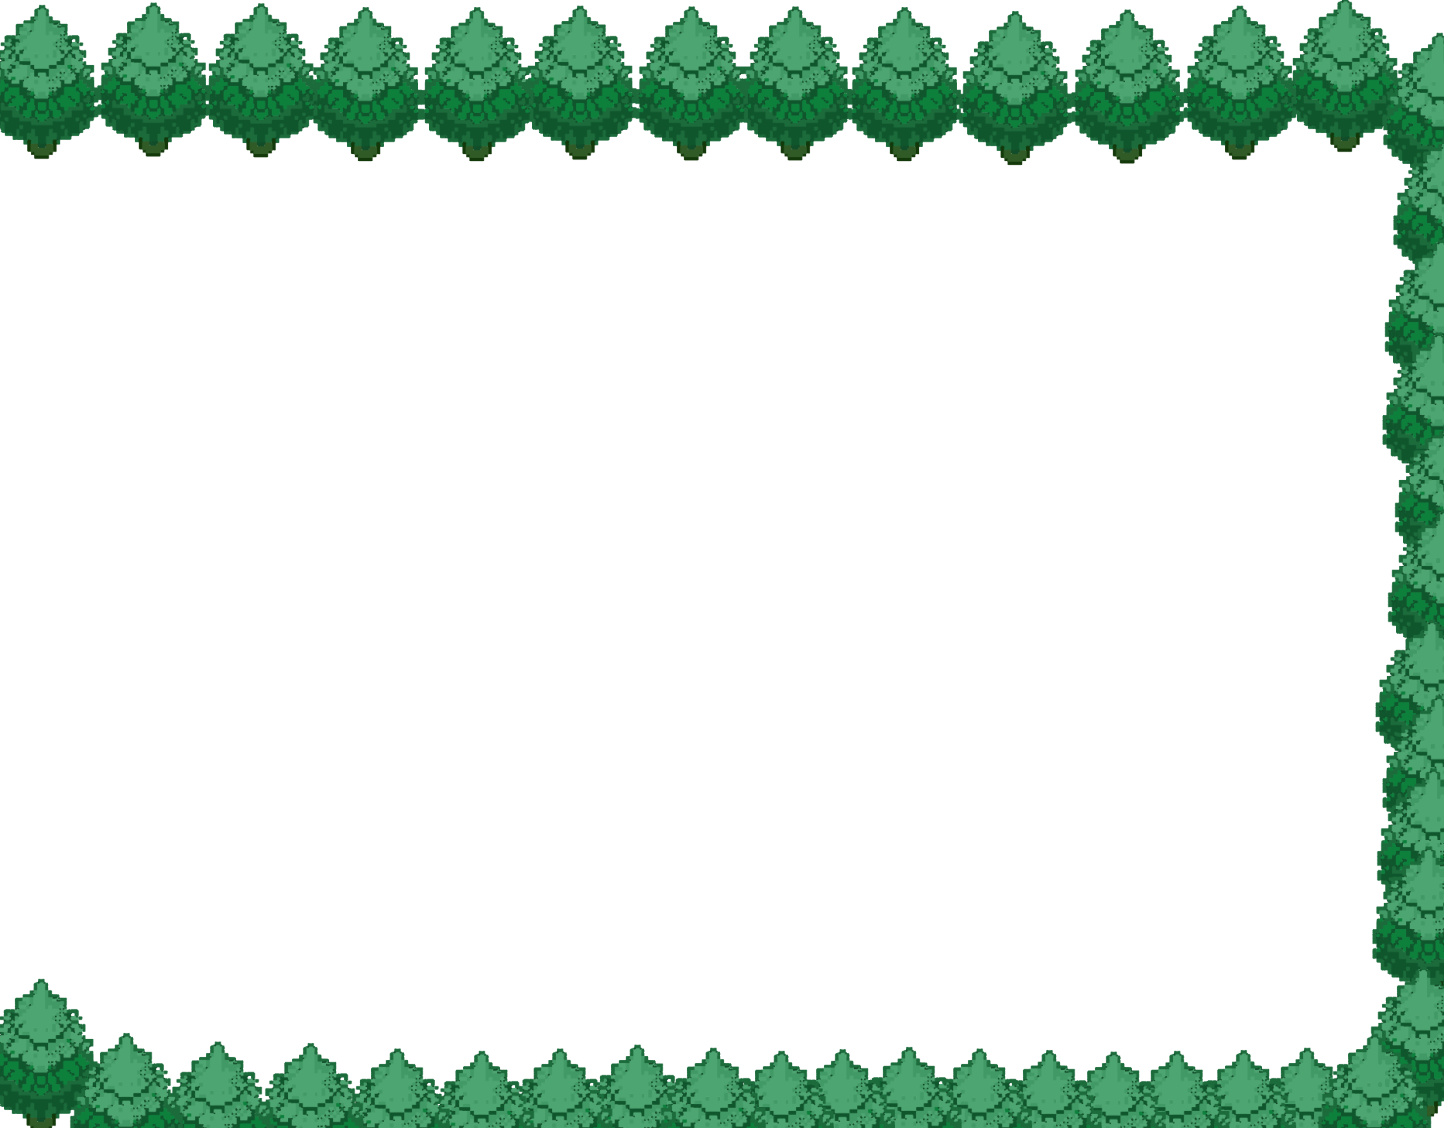
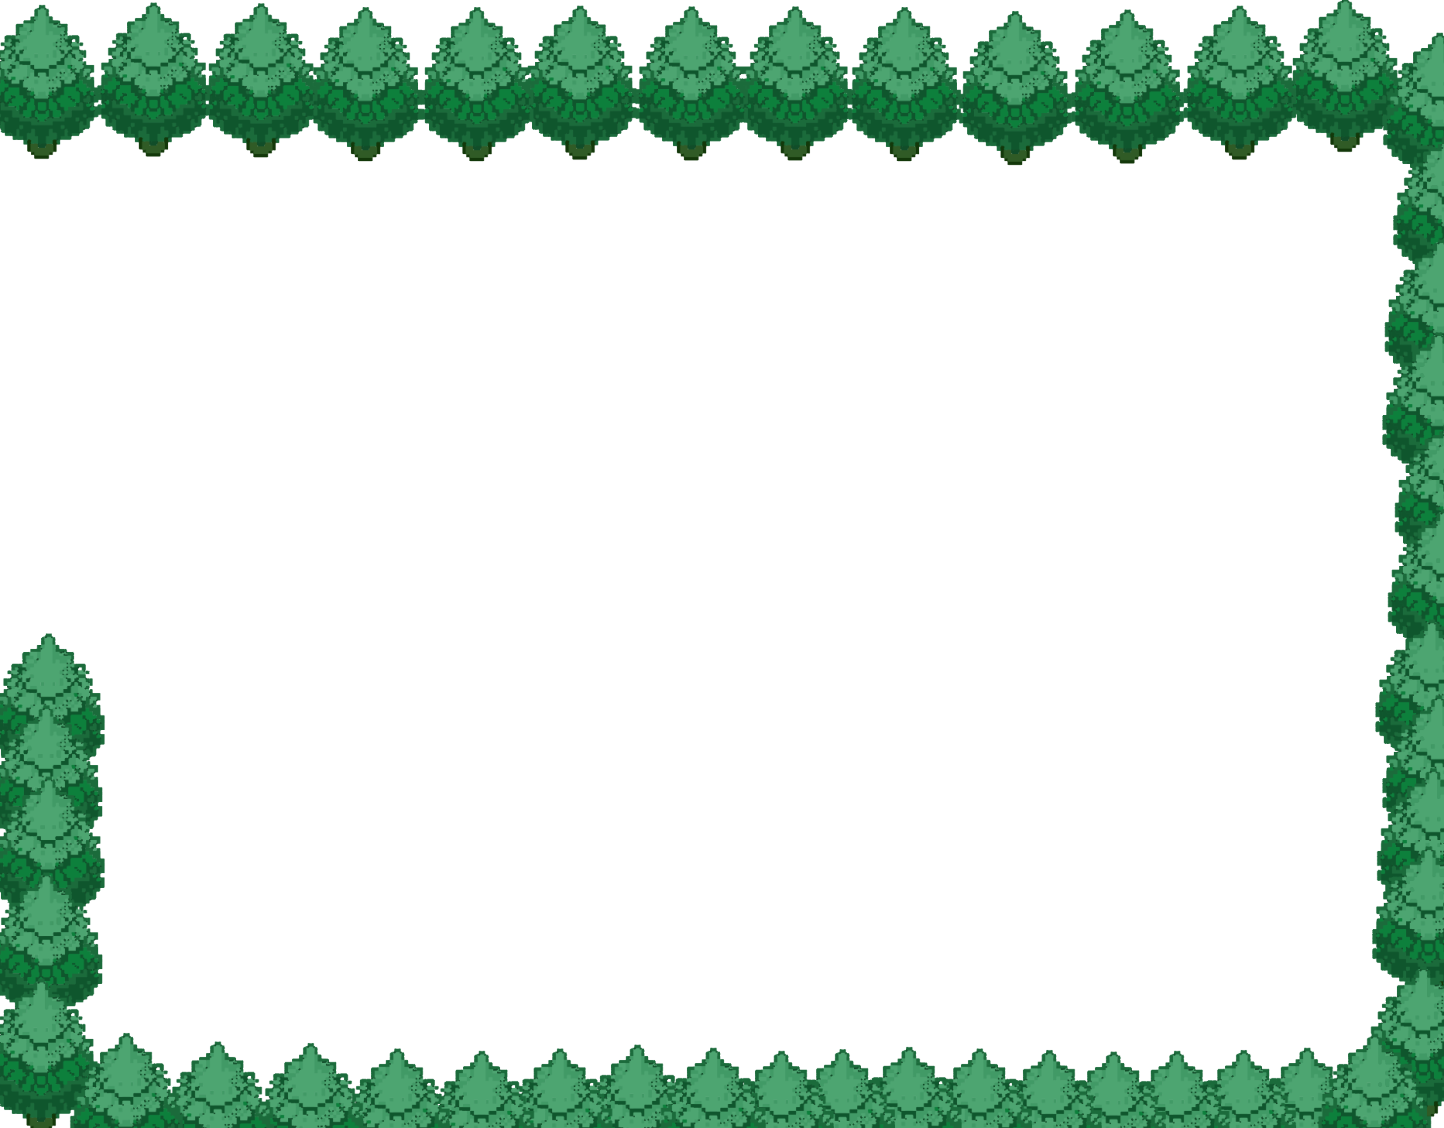
Updates to Map and Town

Changed region(s): [[0.0, 0.5585, 0.0935, 0.8998]]

diff --git a/src/Map.js b/src/Map.js
@@ -15,6 +15,7 @@ class Map {
         this.group.setVisible(true);
         this.mapImage.setVisible(true);
         let children = this.group.getChildren();
+        //WEIRD
             children.forEach((child) => { 
                 this.scene.physics.world.enable(child);
             });
@@ -80,13 +81,14 @@ class Map {
                 this.addHitbox(518, 210, 50, 20, "PresentDayInt", 998, 349);
                 this.addHitbox(-16, 178, 40, 20, "PresentDayInt", -84, 329);
                 this.addHitbox(1000, 185, 70, 20, "PresentDayInt", 527, 244);
-                this.addHitbox(986, 790, 50, 20, "PresentDayInt", 879, 811);
+                this.addHitbox(986, 795, 50, 20, "PresentDayInt", 879, 811);
                 this.addHitbox(71, 790, 50, 20, "PresentDayInt", 97, 814);
                 this.addHitbox(-220, 354, 30, 1000, "Initial Park", 1122, 538, false, true);
                 //Bounds Initialization
                 this.addBounds(500, 950, 1500, 50, "Present Day");
                 this.addBounds(1218, 473, 50, 1500, "Present Day");
                 this.addBounds(501, -48, 1500, 50, "Present Day");
+                this.addBounds(-175, 690, 50, 500, "Present Day");
                 //Library
                 this.addBounds(44, 139, 266, 100,"Present Day");
                 //house
@@ -94,22 +96,32 @@ class Map {
                 //Home Repo
                 this.addBounds(1002, 135, 355, 115, "Present Day");
                 //Town Hall
-                this.addBounds(520, 156, 350, 90, "Present Day");
+                this.addBounds(520, 170, 350, 90, "Present Day");
+                //House
+                this.addBounds(956, 760, 295, 90, "Present Day");
+
+                
                 break;
             case "PresentDayInt":
-                this.addHitbox(998, 375, 50, 20, "Present Day", 514, 250);
+                this.addHitbox(998, 375, 50, 20, "Present Day", 514, 240);
                 this.addHitbox(-84, 355, 50, 20, "Present Day", -16, 206);
                 this.addHitbox(525, 272, 50, 20, "Present Day", 1001, 212);
-                this.addHitbox(879, 850, 50, 20, "Present Day", 976, 816);
+                this.addHitbox(879, 850, 50, 20, "Present Day", 976, 825);
                 this.addHitbox(97, 843, 50, 20, "Present Day", 71, 816);
+                //this.addBounds(1140, -40, )
                 //this.addHitbox(95, 842, 50, 20, "Present Day", 71, 810);
                 break;
             case "Initial Park":
                 this.addHitbox(1160, 364, 20, 1000, "Present Day", -193, 339, false, true);
+                //BOUNDS
+                this.addBounds(443, 665, 2000, 20, "Initial Park");
+                this.addBounds(1140, -340, 50, 1000, "Initial Park");
+                this.addBounds(530, -340, 2000, 50, "Initial Park");
+                this.addBounds(-100, 75, 50, 2000, "Initial Park");
+             
                 
         }
     }
-    //used to make our hitbox gone when needed (by associating it with group)
     addHitbox(x,y, width, height, mapName, destX, destY, keepX=false, keepY=false){
         let hitBox = new Hitbox(this.scene, x, y, width, height, mapName, destX, destY, keepX, keepY);
         this.group.add(hitBox);

diff --git a/src/scenes/Town.js b/src/scenes/Town.js
@@ -50,7 +50,7 @@ class Town extends Phaser.Scene
         this.load.image('1960sFloor', '/Scene_1960s/1960s.png');
         this.load.image('PresentDayInt', '/Scene_PresentDay/Interior.png');
         this.load.image('dialogueBox', '/HUD/text_box.png');
-        
+        this.load.image('treeRight', '/Scene_PresentDay/tree_right.png');
         this.load.image('parkStart', '/Scene_PresentDay/Park_Initial.png');
         this.loadAudio('overworldBGM', '/Music/GAME SONG.mp3', 0.2);
         this.loadAudio('npcAudio', 'npcAudio.mp3', 1);
@@ -158,6 +158,9 @@ class Town extends Phaser.Scene
         this.trees = this.add.image(screenWidth/2, screenHeight/2, 'trees');
         this.trees.depth = 3;
         this.trees.alpha = 1;
+        this.treesRight = this.add.image(screenWidth/2-65, screenHeight/2-150, 'treeRight');
+        this.treesRight.depth = 3;
+        this.treesRight.alpha = 1;
         this.buildingPresent = this.add.image(screenWidth/2, screenHeight/2, 'presentDayHousing');
         this.buildingPresent.depth = 4;
         this.buildingPresent.alpha = 1;
@@ -197,6 +200,11 @@ class Town extends Phaser.Scene
         //Adding for groups
         this.group1.add(this.trees);
         this.group1.add(this.buildingPresent);
+        this.group1.add(this.testNpc);
+        this.group1.add(this.npc2);
+        this.group1.add(this.purpleGuy);
+        //
+        this.group5.add(this.treesRight);
         //
         this.presentDayMap = new Map(this, "Present Day", this.PresentDayBG, this.group1);
         this.sixtiesMap = new Map(this, "1960s", this.MiddleTimeBG, this.group2);
@@ -216,8 +224,8 @@ class Town extends Phaser.Scene
     {
         // this.joystick.update();
         // this.player.update();
-        //console.log("x " + this.player.x);
-        //console.log("y " + this.player.y);
+        console.log("x " + this.player.x);
+        console.log("y " + this.player.y);
 
     }
 }
